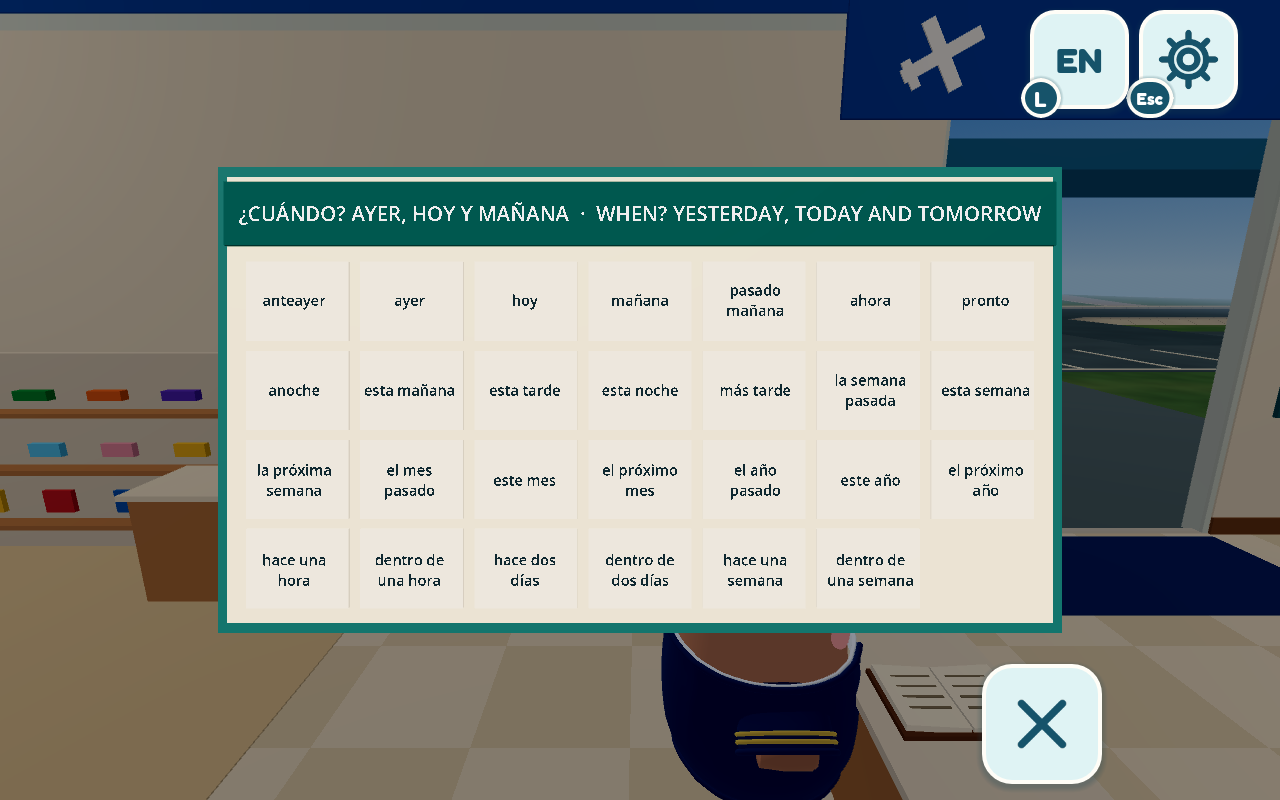
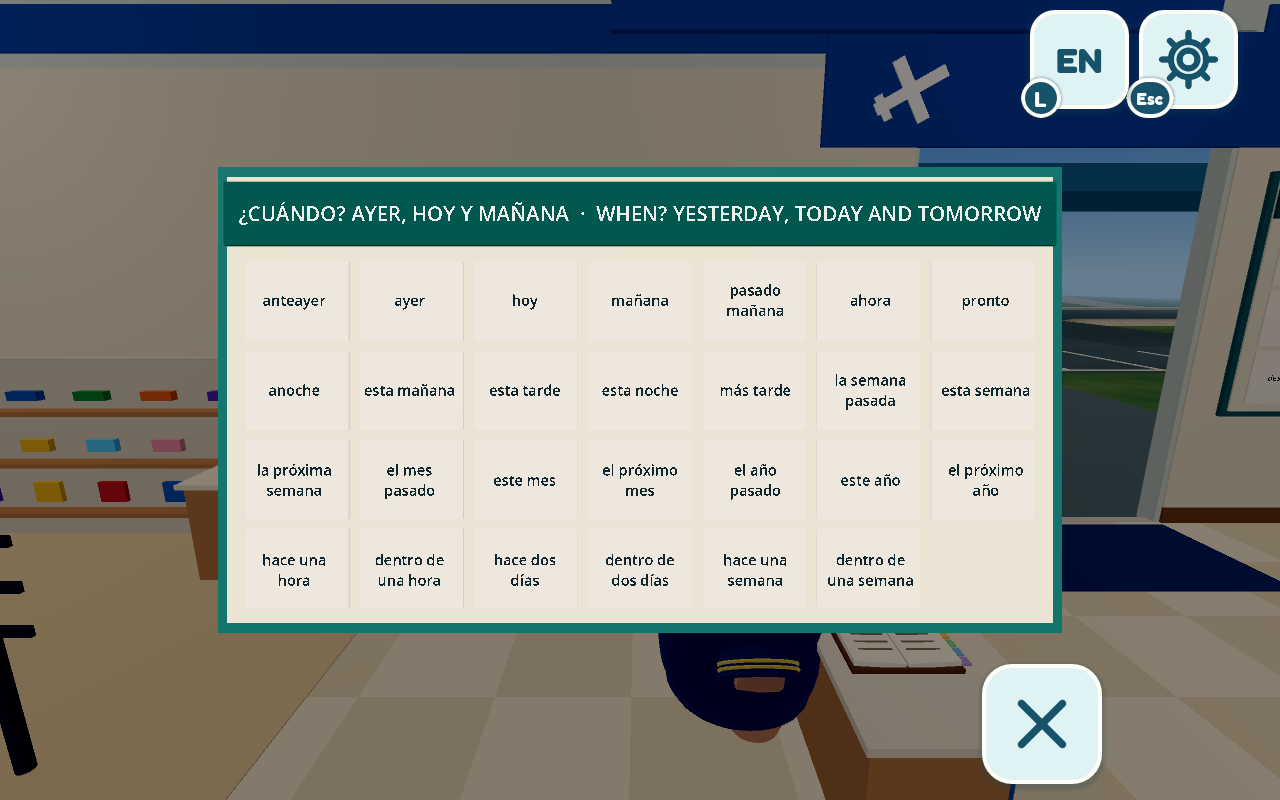
Poster close-up: no word card until the poster has zoomed in (docs, renders)
The code and its check (taps ignored during the 0.4 s glide in; a double
click or a web tap seen as touch and mouse opened a card at once) landed in
eee74d1f. This records it in HAND_HOLD.md and refreshes the renders from that
run: poster_closeup 81 checks, 0 failures (VT_FOCUS=school,police,
restaurants,warehouse,airport). A real touch tap was not tested.

diff --git a/BonAdventure/docs/guides/HAND_HOLD.md b/BonAdventure/docs/guides/HAND_HOLD.md
@@ -126,12 +126,14 @@ least two word cards is on a poster. A copy of the poster (batched originals sho
 and distance fade off, the restaurant icon sheets shared) glides to 0.7 m in front of the camera
 with `fit: "face"`, `fill` 0.8, gentle; the wall poster hides meanwhile and the copy is freed on
 closing. The game buttons hide (`hud.hide_for_game(true, "poster")`), movement and word clicks are
-off (`Main.sync_player_controls`). Input claim `poster`: a tap closes an open card, else a tap on a
+off (`Main.sync_player_controls`). Input claim `poster`: taps do nothing until the glide in has
+ended (`zoomed_in()`; user, 24 Nov 2026: no word card before the poster has zoomed in, which a
+double click or a web tap seen as touch and mouse caused); then a tap closes an open card, else a tap on a
 word of the copy (its screen box) shows that word's card and studies it, a tap off the poster
 closes; E, Esc (popup stack) and the ✕ (the Inspect button's place) close. Not in minigames or
 while the tutorial holds word cards back (as word cards).
 Check: `docs/evidence/poster-closeup-20261124/verify.gd` (isolated HOME,
-`VT_FOCUS=school,police,restaurants,warehouse,airport`, graphics): **71 checks, 0 failures** on
+`VT_FOCUS=school,police,restaurants,warehouse,airport`, graphics): **81 checks, 0 failures** (with clicks during the zoom-in) on
 the family, evidence, Pizza menu board, warehouse verbs and airport "when" posters; renders
 `*-closeup.png`, `*-card.png`. Not checked: the Mystery House posters (Chinese titles; same rule),
 a real touch tap (the check calls `click()` with a pointer position).
